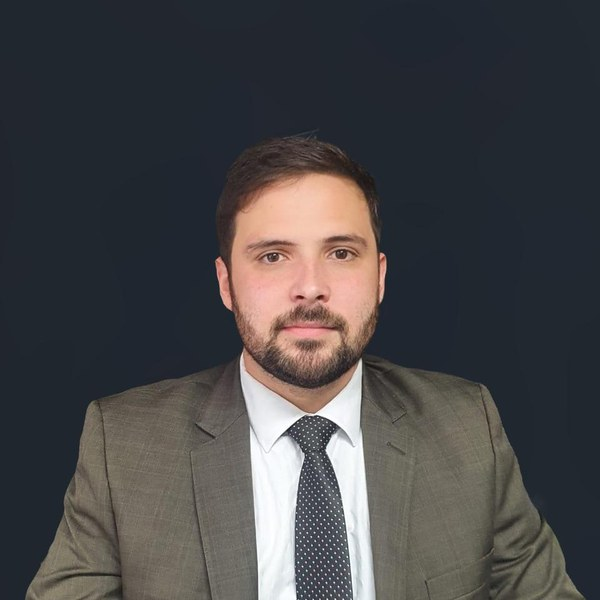
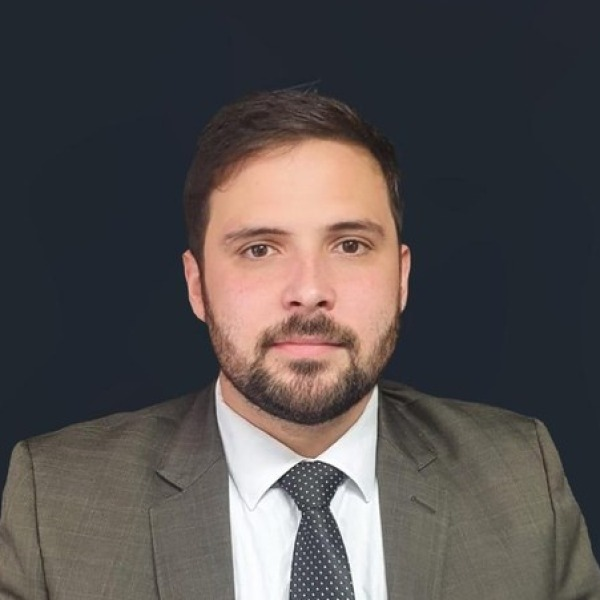
feat(team): finalize trust architecture hierarchy and face-centered portraits
Align Team bands with real accountability (Rodrigo secondary leadership,
Claudia financial operations, Ops delivery only) and reframe public
portraits on detected faces without AI retouch.

Changed region(s): [[0.0, 0.15, 1.0, 1.0]]

diff --git a/app/team/page.tsx b/app/team/page.tsx
@@ -27,7 +27,7 @@ const leadership: Member[] = [
     photo: "/team/rubio-teixeira.jpg",
     photoKey: "rubio",
     focus:
-      "Regulatory structuring, international licensing and market entry strategy. Operational presence across Brazil, Portugal, EU and offshore jurisdictions since 2019.",
+      "Final accountability for Octus. Regulatory structuring, international licensing and market entry strategy across Brazil, Portugal, EU and offshore jurisdictions.",
     linkedin: "https://www.linkedin.com/in/rubioteixeiraoctus/",
   },
   {
@@ -36,22 +36,37 @@ const leadership: Member[] = [
     photo: "/team/maria-cristina.jpg",
     photoKey: "maria",
     focus:
-      "Operational leadership and client engagement across Octus' regulatory and compliance mandates. Senior depth across regulated markets in Brazil and internationally.",
+      "Executive operational leadership and client engagement across Octus' regulatory and compliance mandates. Senior depth across regulated markets in Brazil and internationally.",
     linkedin: "https://www.linkedin.com/in/maria-cristina-060241b6/",
   },
 ];
 
-/** Executive profile under Leadership — does not compete with founders */
+/** Secondary leadership — trust layer, not a specialist card */
 const leadershipSupport: Member[] = [
   {
     name: "Rodrigo Coelho Lopes",
-    title: "Legal Architecture Lead",
+    title: "Leadership Support",
     photo: "/team/rodrigo-lopes.jpg",
     photoKey: "rodrigo",
-    capability: "Legal architecture",
+    capability: "Strategic legal architecture",
     focus:
-      "Legal strategy and coordination across the group's regulatory and corporate mandates. Oversight of legal architecture, cross-border structure and jurisdictional risk.",
+      "Leadership support with responsibility for strategic legal architecture across the group's regulatory and corporate mandates — cross-border structure and jurisdictional risk.",
     linkedin: null,
+  },
+];
+
+/** Operational leadership — financial continuity (restrained title) */
+const operationalLeadership: Member[] = [
+  {
+    name: "Claudia Nery",
+    title: "Financial Operations",
+    photo: "/team/claudia-nery.jpg",
+    photoKey: "claudia",
+    capability: "Financial continuity",
+    focus:
+      "Financial operations, banking relationships and financial continuity across the Octus group.",
+    linkedin: "https://www.linkedin.com/in/claudia-nery/",
+    featured: true,
   },
 ];
 
@@ -102,6 +117,7 @@ const specialists: Member[] = [
   },
 ];
 
+/** Operational delivery support */
 const operations: Member[] = [
   {
     name: "Bianca Carolina Oliveira Andrade",
@@ -115,24 +131,15 @@ const operations: Member[] = [
     featured: true,
   },
   {
-    name: "Claudia Nery",
-    title: "Chief Financial Officer",
-    photo: "/team/claudia-nery.jpg",
-    photoKey: "claudia",
-    capability: "Financial governance",
-    focus:
-      "Corporate and financial architecture. Financial governance, group structuring and reporting across jurisdictions.",
-    linkedin: "https://www.linkedin.com/in/claudia-nery/",
-  },
-  {
     name: "Luciana Santos Veloso",
     title: "Operations Coordinator",
     photo: "/team/luciana-santos-veloso.jpg",
     photoKey: "luciana",
     capability: "Operations",
     focus:
-      "Operational workflows, client documentation and cross-functional coordination across multiple jurisdictions.",
+      "Operational delivery support — workflows, client documentation and cross-functional coordination across jurisdictions.",
     linkedin: null,
+    featured: true,
   },
 ];
 
@@ -141,14 +148,21 @@ function MemberCard({
   tier,
 }: {
   member: Member;
-  tier: "leadership" | "leadership-support" | "specialist" | "operations";
+  tier:
+    | "leadership"
+    | "leadership-support"
+    | "operational-leadership"
+    | "specialist"
+    | "operations";
 }) {
   const cardTier =
     tier === "operations" && member.featured
       ? "operations-featured"
       : tier === "leadership-support"
         ? "leadership-support"
-        : tier;
+        : tier === "operational-leadership"
+          ? "operational-leadership"
+          : tier;
   const quiet = !member.featured && (tier === "specialist" || tier === "operations");
 
   const inner = (
@@ -212,9 +226,16 @@ export default function TeamPage() {
             ))}
           </div>
 
-          <div className="team-grid team-grid--leadership-support mb-16">
+          <div className="team-grid team-grid--leadership-support">
             {leadershipSupport.map((m) => (
               <MemberCard key={m.name} member={m} tier="leadership-support" />
+            ))}
+          </div>
+
+          <p className="team-band-label">Operational Leadership</p>
+          <div className="team-grid team-grid--operational-leadership mb-16">
+            {operationalLeadership.map((m) => (
+              <MemberCard key={m.name} member={m} tier="operational-leadership" />
             ))}
           </div>
 

diff --git a/app/globals.css b/app/globals.css
@@ -1965,15 +1965,23 @@ footer .heading-lg,
   max-width: 18rem;
   margin-inline: auto;
   gap: 1.5rem;
-  margin-bottom: 4rem;
+  margin-bottom: 2rem;
   padding-top: 0.5rem;
   border-top: 1px solid hsl(var(--border));
+}
+.team-grid--operational-leadership {
+  display: grid;
+  grid-template-columns: minmax(0, 1fr);
+  max-width: 18rem;
+  margin-inline: auto;
+  gap: 1.5rem;
+  margin-bottom: 4rem;
 }
 .team-grid--core {
   margin-bottom: 1rem;
 }
 .team-grid--operations {
-  max-width: 56rem;
+  max-width: 40rem;
   margin-inline: auto;
 }
 .team-card--leadership .team-card-photo-wrap {
@@ -1983,6 +1991,10 @@ footer .heading-lg,
 .team-card--leadership-support .team-card-photo-wrap {
   width: 148px;
   height: 148px;
+}
+.team-card--operational-leadership .team-card-photo-wrap {
+  width: 140px;
+  height: 140px;
 }
 .team-card--specialist .team-card-photo-wrap {
   width: 140px;
@@ -2032,20 +2044,26 @@ footer .heading-lg,
   width: 100%;
   height: 100%;
   object-fit: cover;
-  object-position: center 18%;
+  object-position: center 40%;
   filter: grayscale(1) contrast(1.1) brightness(0.97);
 }
-/* Crop fine-tunes only — eyes / face recognition */
-.team-photo--rubio .team-card-photo { object-position: center 16%; }
-.team-photo--maria .team-card-photo { object-position: center 20%; }
-.team-photo--rodrigo .team-card-photo { object-position: center 14%; }
-.team-photo--esther .team-card-photo { object-position: center 18%; }
-.team-photo--caroline .team-card-photo { object-position: center 20%; }
-.team-photo--larissa .team-card-photo { object-position: center 18%; }
-.team-photo--milla .team-card-photo { object-position: center 22%; }
-.team-photo--bianca .team-card-photo { object-position: center 18%; }
-.team-photo--claudia .team-card-photo { object-position: center 16%; }
-.team-photo--luciana .team-card-photo { object-position: center 12%; }
+/*
+  Face-centered portraits (YuNet detection → composition crop in /public/team).
+  object-position fine-tunes eye line inside the circular frame.
+  No AI face generation / retouch.
+*/
+.team-photo--rubio .team-card-photo,
+.team-photo--rubio .home-leadership-trust__photo { object-position: 49% 18%; }
+.team-photo--maria .team-card-photo,
+.team-photo--maria .home-leadership-trust__photo { object-position: 50% 40%; }
+.team-photo--rodrigo .team-card-photo { object-position: 50% 40%; }
+.team-photo--esther .team-card-photo { object-position: 50% 42%; }
+.team-photo--caroline .team-card-photo { object-position: 50% 40%; }
+.team-photo--larissa .team-card-photo { object-position: 50% 36%; }
+.team-photo--milla .team-card-photo { object-position: 50% 40%; }
+.team-photo--bianca .team-card-photo { object-position: 50% 40%; }
+.team-photo--claudia .team-card-photo { object-position: 49% 40%; }
+.team-photo--luciana .team-card-photo { object-position: 50% 38%; }
 .team-capability {
   font-size: 11px;
   letter-spacing: 0.1em;
@@ -2204,7 +2222,7 @@ footer .heading-lg,
   width: 100%;
   height: 100%;
   object-fit: cover;
-  object-position: center 18%;
+  object-position: center 40%;
   filter: grayscale(1) contrast(1.1) brightness(0.97);
 }
 .home-leadership-trust__name {

diff --git a/components/system/HomeLeadershipTrust.tsx b/components/system/HomeLeadershipTrust.tsx
@@ -38,7 +38,11 @@ export default function HomeLeadershipTrust() {
         <div className="home-leadership-trust__grid">
           {leaders.map((l) => (
             <Link key={l.name} href={l.href} className="home-leadership-trust__card no-underline">
-              <div className="home-leadership-trust__photo-wrap">
+              <div
+                className={`home-leadership-trust__photo-wrap team-photo--${
+                  l.name.startsWith("Rubio") ? "rubio" : "maria"
+                }`}
+              >
                 {/* eslint-disable-next-line @next/next/no-img-element */}
                 <img src={l.photo} alt={l.name} className="home-leadership-trust__photo" />
               </div>

diff --git a/docs/design/trust-architecture-final/TRUST_ARCHITECTURE_REPORT.md b/docs/design/trust-architecture-final/TRUST_ARCHITECTURE_REPORT.md
@@ -1,0 +1,139 @@
+# TRUST ARCHITECTURE FINALIZATION — Report
+
+**Terminal:** `OCTUS_TRUST_ARCHITECTURE_FINAL_READY`  
+**Mission:** `OCTUS_TRUST_ARCHITECTURE_FINALIZATION`  
+**Date:** 2026-07-22  
+**Repository:** `rubioprojects/octus-consulting`  
+**PR:** https://github.com/rubioprojects/octus-consulting/pull/10  
+**Branch:** `feat/official-brand-system-integration`  
+**Baseline:** Institutional Deepening (PR #10)  
+**Build:** `npm run build` — **PASS**
+
+---
+
+## Confirmations
+
+```
+ia_changed: false
+routes_changed: false
+copy_strategy_changed: false
+redirects_added: false
+dns_changed: false
+production_cutover: false
+solutions_changed: false
+markets_changed: false
+```
+
+This is **not** a redesign. Alignment of public Team representation with real accountability.
+
+---
+
+## Final hierarchy
+
+| Band | Who | Public role | Purpose |
+|------|-----|-------------|---------|
+| **Leadership** (LEFT / RIGHT) | Rubio Teixeira · Maria Cristina | Founder · Managing Director | Who leads / final + executive operational accountability |
+| **Secondary leadership** | Rodrigo Coelho Lopes | Leadership Support · Strategic legal architecture | Trust layer — **not** a specialist card |
+| **Operational leadership** | Claudia Nery | Financial Operations | Financial ops, banking relationships, continuity — restrained title |
+| **Core Specialists** | Esther · Caroline · Larissa · Milla | Capability-led titles | Who executes |
+| **Operations** | Bianca · Luciana | People & Operations · Operations Coordinator | Operational delivery support |
+
+### Homepage trust block
+
+- **Kept:** Founder + executive leadership only (Rubio + Maria)
+- **Not:** team directory
+- Purpose: signal accountability
+
+---
+
+## Public profiles (titles)
+
+| Name | Title (public) | Capability label |
+|------|----------------|------------------|
+| Rubio Teixeira | Founder | — |
+| Maria Cristina | Managing Director | — |
+| Rodrigo Coelho Lopes | Leadership Support | Strategic legal architecture |
+| Claudia Nery | Financial Operations | Financial continuity |
+| Esther Vendrami | International Regulatory & Compliance Lead | International regulatory |
+| Caroline Giovanetti | Brazil Regulatory Lead | Brazil regulatory |
+| Larissa Carvalho | Regulatory & Compliance Specialist | Regulatory & compliance |
+| Milla Ludovico | Business Development Lead | Commercial intake |
+| Bianca Carolina Oliveira Andrade | People & Operations | People & delivery |
+| Luciana Santos Veloso | Operations Coordinator | Operations |
+
+**Claudia:** CFO title removed. No exaggerated executive power claim. Responsibility for banking / financial continuity is explicit.
+
+**Rodrigo:** Remains under leadership trust layer (secondary), not Core Specialists.
+
+---
+
+## Photography system
+
+### Method
+
+1. YuNet face detection (`opencv` FaceDetectorYN) on each `/public/team` portrait  
+2. Face-aware **composition crop** (deterministic geometry — **no** AI face generation, **no** identity retouch)  
+3. Eyes targeted ~40% vertical in frame (classic portrait)  
+4. CSS: grayscale + contrast + Octus ring; `object-position` fine-tune per person  
+
+**Why crop files (not object-position alone):** most sources are already 1:1 squares into 1:1 circular frames — `object-fit: cover` leaves **no crop room**, so generic `object-position` cannot move faces. Square→square made “center the photo” fail when faces were off-pattern (Esther low, Rubio top-edge, Larissa left).
+
+### Photo status
+
+| Key | Face centering | Notes |
+|-----|----------------|-------|
+| rubio | Acceptable | Source has **no headroom** (face at top edge). Flag for future photoshoot. |
+| maria | Good | Eyes ~40% |
+| rodrigo | Good | |
+| esther | Good | Was low in frame — corrected |
+| caroline | Good | |
+| larissa | Good | Horizontal recenter |
+| milla | Good | |
+| bianca | Good | |
+| claudia | Good | Photoshoot recommended (softer source detail) |
+| luciana | Good | Portrait→square; photoshoot recommended for institutional match |
+
+**Treatment:** grayscale · consistent contrast · circular frame · Octus visual ring · face-centered crop.
+
+---
+
+## Brand polish (while on Team)
+
+- Logo / footer / typography contrast: no IA or route changes; footer hierarchy unchanged structurally  
+- Team band labels clarified (`Operational Leadership` added)  
+- Ops grid narrowed (2 people)
+
+---
+
+## Screenshots
+
+Path: `docs/design/trust-architecture-final/screenshots/`
+
+| File | Capture |
+|------|---------|
+| `01-home-leadership-desktop.png` | Homepage leadership block |
+| `02-team-full-desktop.png` | Team full page |
+| `03-footer-desktop.png` | Footer |
+| `04-team-mobile.png` | Mobile Team |
+| `05-home-leadership-mobile.png` | Mobile homepage leadership |
+| `06-footer-mobile.png` | Mobile footer |
+
+---
+
+## Build result
+
+```
+npm run build → PASS (static export)
+```
+
+Local evidence serve: `npx serve out -l 3456`
+
+---
+
+## Outcome
+
+Public trust architecture now mirrors real accountability:
+
+**Who leads → who supports leadership → who protects financial continuity → who executes → who delivers operations.**
+
+`OCTUS_TRUST_ARCHITECTURE_FINAL_READY`
